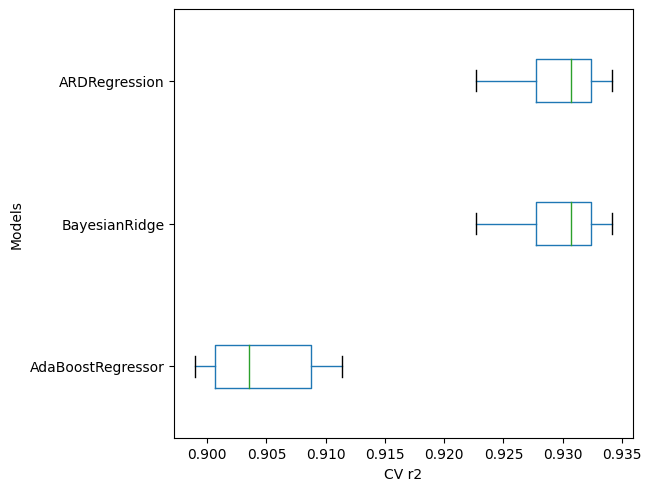
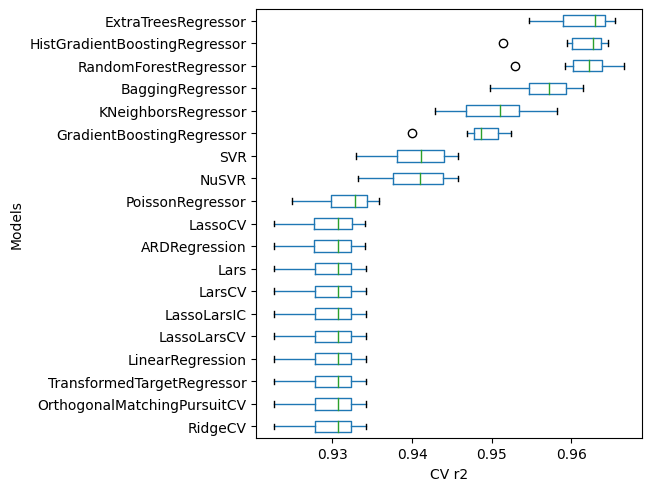
Progress 11:52a 11/6

diff --git a/AutoML/ScikitLearn/Sim_v5/SimultRegRun_v5.py b/AutoML/ScikitLearn/Sim_v5/SimultRegRun_v5.py
@@ -6,35 +6,30 @@ from sklearn.model_selection import StratifiedShuffleSplit
 from sklearn.preprocessing import StandardScaler
 from sklearn.model_selection import cross_validate
 from sklearn.model_selection import KFold
-from sklearn.metrics import mean_squared_error
-from sklearn.metrics import r2_score
-from sklearn.metrics import mean_absolute_error
+from sklearn import metrics
 from sklearn.utils import all_estimators
-from sklearn.pipeline import Pipeline
 import warnings
 warnings.filterwarnings('ignore')
 
 def get_all_regs():
     estimators = all_estimators(type_filter='regressor')
-    forbidden_estimators = (
-        "DummyRegressor", "GaussianProcessRegressor", 
+    forbidden_estimators = [
+        "DummyRegressor", "GaussianProcessRegressor", "KernelRidge", 
         "QuantileRegressor", "SGDRegressor", 
         "MultiOutputRegressor", "RegressorChain",
         "StackingRegressor", "VotingRegressor"
-        )
-
+        ]
+    print(estimators)
     all_regs = []
     all_reg_names = []
     for name, RegressorClass in estimators:
-        try:
-            if name not in forbidden_estimators:
+        if name not in forbidden_estimators:
                 print('Appending', name)
                 reg = RegressorClass()
                 all_regs.append(reg)
                 all_reg_names.append(name)
-        except Exception as e:
-            print(e)
-
+        else:
+            print(f"Skipping {name}")
     return all_regs, all_reg_names
 
 def load_data(datapath):
@@ -95,9 +90,10 @@ def data_transform(datapath):
     return train_attrib, train_labels, test_attrib, test_labels
 
 #mother function that runs the models and returns several figures showing comparison of the models
-def comparison(datapath, n_models, metric_list, n_vizualized):
-    models = get_all_regs()[0][0:n_models]
-    model_names = get_all_regs()[1][0:n_models]
+def comparison(datapath, n_models, metric_list, n_vizualized, metric_help):
+    models, model_names = get_all_regs()
+    if n_models != 'all':
+        models, model_names = models[0:n_models], model_names[0:n_models]
     train_attrib, train_labels, test_attrib, test_labels = data_transform(datapath)
     cv_data = []
     errors = []
@@ -113,16 +109,16 @@ def comparison(datapath, n_models, metric_list, n_vizualized):
     for j in range(len(models)):
         if models[j] not in errors:
             passed_models += [model_names[j]]
-    figs = [test_best(cv_data, passed_models, metric_list, test_attrib, test_labels)]
+    figs = [test_best(cv_data, passed_models, metric_list, test_attrib, test_labels, metric_help)]
     for metric in metric_list:
-        figs += [boxplot(cv_data, passed_models,metric,n_vizualized)]
+        figs += [boxplot(cv_data, passed_models, metric, n_vizualized, metric_help)]
     for k in range(len(figs)):
         figs[k].savefig(f'fig_{k}.png',bbox_inches='tight')
     pass
 
 #the function that performs cross-validation
 def run(model, metric_list, train_attrib, train_labels):
-    print(f"checking {model}")
+    print(f"Checking {model}")
     try:
         cv_outer = KFold(n_splits=10, shuffle=True, random_state=2)
         cv_output_dict = cross_validate(model, train_attrib, train_labels, scoring=metric_list, cv=cv_outer, return_estimator=True)
@@ -132,49 +128,39 @@ def run(model, metric_list, train_attrib, train_labels):
 
 #metric must be a string
 #show is how many of top models are vizualized
-def boxplot(cv_data, passed_models, metric, show):
+def boxplot(cv_data, passed_models, metric, show, metric_help):
     boxfig = plt.figure(constrained_layout=True)
     df = pd.DataFrame()
     for i,j in zip(cv_data,passed_models):
-        if metric[:3] == 'neg':
-            df[j] = list(i['test_'+metric]*-1)
-        else:
-            df[j] = list(i['test_'+metric])
-
-    metric_dict = {"r2": False, "neg_mean_squared_error": True,"neg_mean_absolute_error": True}
-    sorted_index = df.median().sort_values(ascending=not metric_dict[metric]).index
+            df[j] = list(i['test_'+metric]*metric_help[metric][1])
+    sorted_index = df.median().sort_values(ascending=metric_help[metric][0]).index
     df_sorted = df_sorted=df[sorted_index]
-    df_sorted.iloc[:, :show].boxplot(vert=False,grid=False)
+    df_sorted.iloc[:,show:].boxplot(vert=False,grid=False)
     plt.xlabel(f'CV {metric}')
     plt.ylabel('Models')
     return boxfig
 
 
 #takes the model produced by the best cv run and runs it over the test data. returns table comparing model performance on test data
-def test_best(cv_data, passed_models, metric_list, test_attrib, test_labels):
+def test_best(cv_data, passed_models, metric_list, test_attrib, test_labels, metric_help):
     metric_columns = []
     for metric in metric_list:
         metric_columns += [[metric,[]]]
     for i in cv_data:
-        x = list((np.sqrt(i['test_neg_mean_squared_error']*-1)))
+        x = list(i['test_neg_mean_squared_error']*-1)
         y = list(i['estimator'])
         for j in range(len(x)):
             if x[j] == min(x):
                 best = y[j]
         predictions = best.predict(test_attrib)
         for k in metric_columns:
-            #next line won't work. need to figure out how to use statistics module to calculate metrics on test predictions
-            k[1] += [round(r2_score(test_labels,predictions),4)]
+            k[1] += [round(metric_help[k[0]][2](test_labels,predictions),4)]
     columnnames = metric_list
     final_columns = []
     for m in metric_columns:
         final_columns += [m[1]]
     df = pd.DataFrame(np.array(final_columns).T,index=passed_models,columns=columnnames)
-    if metric_list[0] != 'r2':
-        notr2 = True
-    else:
-        notr2 = False
-    sorted_df = df.sort_values(by=metric_list[0],ascending=notr2)
+    sorted_df = df.sort_values(by=metric_list[0],ascending=metric_help[metric][0])
     fig, ax = plt.subplots()
     fig.patch.set_visible(False)
     ax.axis('off')
@@ -185,8 +171,19 @@ def test_best(cv_data, passed_models, metric_list, test_attrib, test_labels):
 
 
 paramdict = {'datapath': 'AutoML/PowerPlantData/Folds5x2_pp.csv',
-            'n_models': 5,
-            'metric_list': ["neg_mean_squared_error","neg_mean_absolute_error","r2"],
-            'n_vizualized': 3,
-    }
+            'n_models': 'all',
+            'metric_list': ['neg_root_mean_squared_error','neg_mean_absolute_error','r2'],
+            'n_vizualized': 20,
+            'metric_help': {'explained_variance': [True, 1, metrics.explained_variance_score], 'max_error': [False, 1, metrics.max_error],
+                            'neg_mean_absolute_error': [False, -1, metrics.mean_absolute_error], 'neg_mean_squared_error': [False, -1, metrics.mean_squared_error],
+                            'neg_root_mean_squared_error': [False, -1, metrics.mean_squared_error], 'neg_mean_squared_log_error': [False, -1, metrics.mean_squared_log_error],
+                            'neg_median_absolute_error': [False, -1, metrics.median_absolute_error], 'r2': [True, 1, metrics.r2_score],
+                            'neg_mean_poisson_deviance': [False, -1, metrics.mean_poisson_deviance], 'neg_mean_gamma_deviance': [False, -1, metrics.mean_gamma_deviance],
+                            'neg_mean_absolute_percentage_error': [False, -1, metrics.mean_absolute_percentage_error], 'd2_absolute_error_score': [True, 1, metrics.d2_absolute_error_score],
+                            'd2_pinball_score': [True, 1, metrics.d2_pinball_score], 'd2_tweedie_score': [True, 1, metrics.d2_tweedie_score]
+                        }
+        }
+
 comparison(**paramdict)
+
+#GENERAL FORM of metric_help: {'metric':[ higher score is better? , positive or negative score values, accociated stat function ] } 
